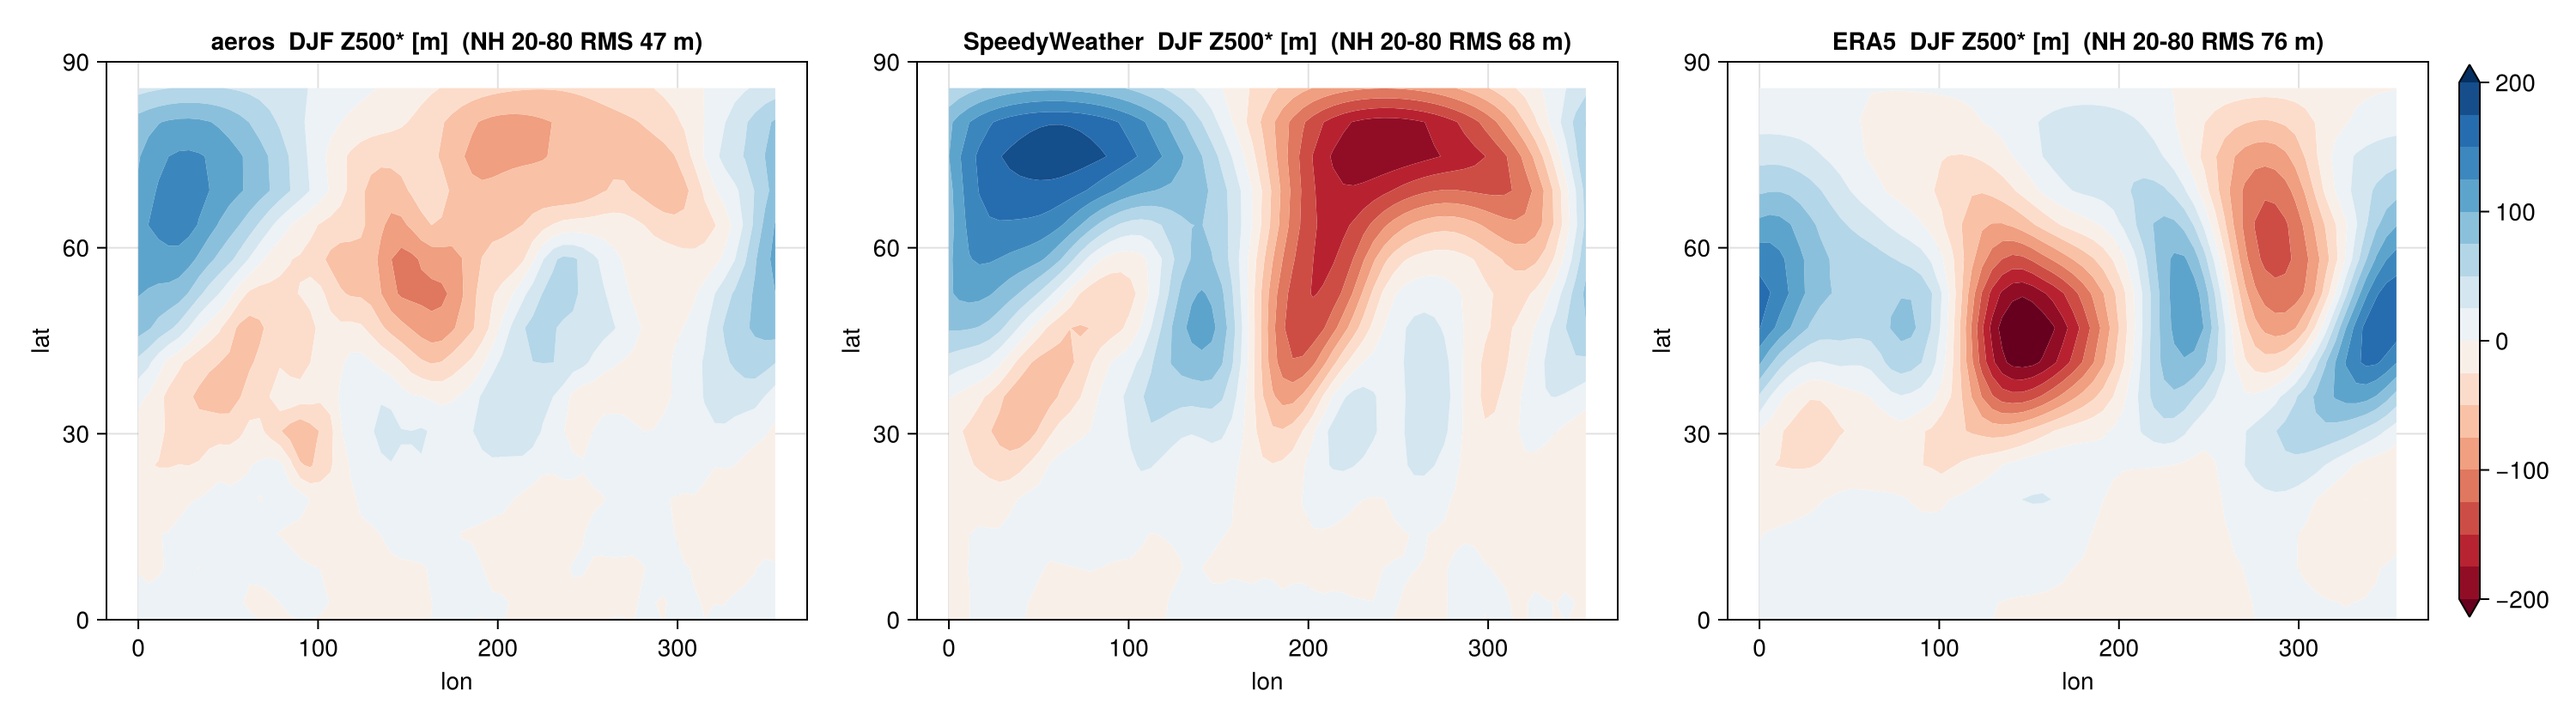
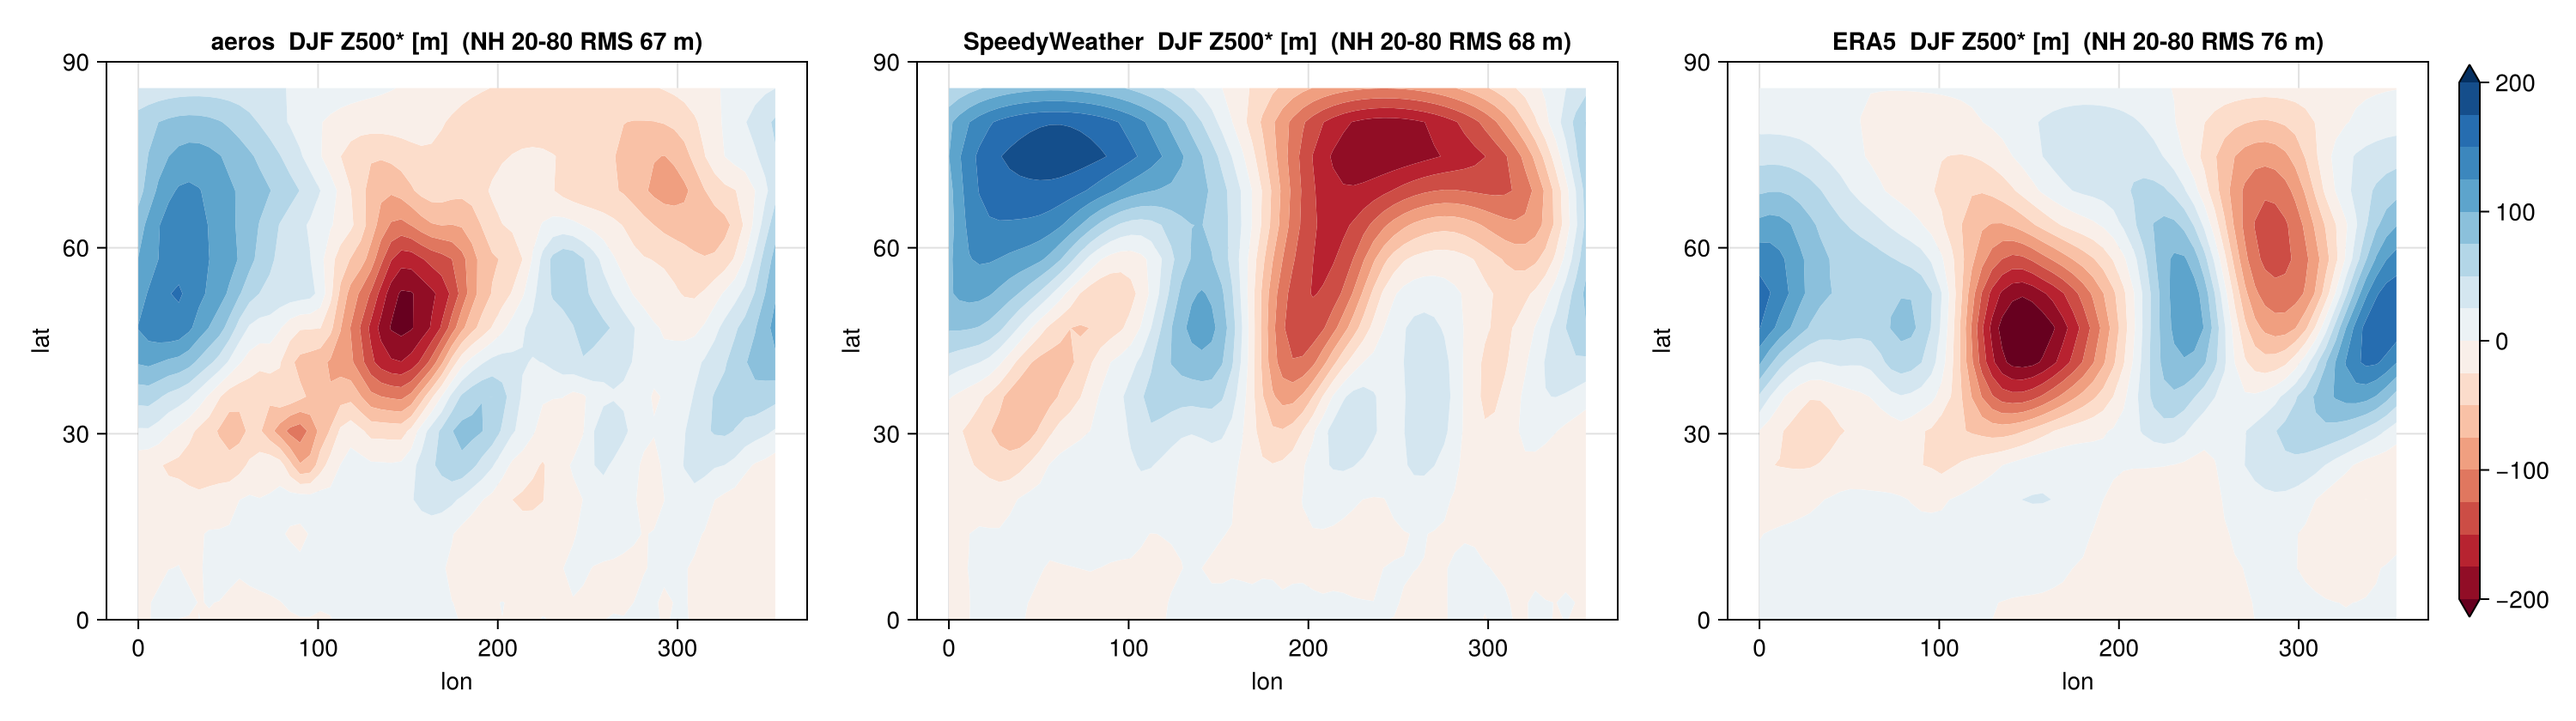
transport: mass-consistent tracer division (closes the water budget); SW surface wind; budget diagnostics
The FV tracer engine divided the transported tracer mass by its own
FV-advanced air mass, then the next step re-diagnosed layer masses from
the spectral surface pressure: the water content jumped by q*(dp_spec -
dp_FV) every step, a systematic source of 0.5-0.9 mm/day (a third of
the precipitation). Now qm is divided by the spectral layer mass at n+1
(one 2-D synthesis per step); cloud fraction is clamped at 1. Residual
dW/dt - (E - P) = -0.02 mm/day.

Also: SpeedyWeather's surface wind for all bulk fluxes, V0 =
sqrt((0.95 V_low)^2 + 5^2) (replaces the 1 m/s floor; gust_speed /
wind_slowdown knobs); a global water-budget line in the rce_long report
and a per-operator water tally (l_diag); monthly output gains vlow, evap,
shf; the SW harness records the same.

Real-Earth T21L12 (3 yr, dt=3600): P = E = 1.85 mm/day (SW 3.3, ERA5
2.9), W 30 mm, DJF NH Z500* RMS 67 m (SW 68, ERA5 76), t2m amplitude
30 K (ERA5 34), lowest-level T 287.5 (ERA5 287.5). 26/26 tests.

Changed region(s): [[0.031, 0.1238, 0.31, 0.7119]]

diff --git a/docs/refs/realearth_metrics_2026-09-05.md b/docs/refs/realearth_metrics_2026-09-05.md
@@ -1,15 +1,15 @@
 # aeros vs SpeedyWeather vs ERA5, real-Earth T21
 
-aeros: `/Users/alrobi001/models/aeros/mwm/D_realearth/output/aeros_realearth_T21L12_dt2700.nc`  
+aeros: `mwm/D_realearth/output/aeros_realearth_T21L12.nc`  
 SW: `/Users/alrobi001/models/aeros/mwm/D_realearth/output/sw_realearth_T21L8.nc`
 
 | metric | aeros | SpeedyWeather | ERA5 |
 |---|---|---|---|
-| global-mean precip [mm/day] | 2.1 | 3.3 | 2.9 |
-| global-mean T, top level / 70 hPa [K] | 214.2 | 235.2 | 206.6 |
-| global-mean T, lowest level / 2 m [K] | 288.1 | 278.3 | 287.5 |
-| max annual zonal-mean u [m/s] | 63.1 | 63.0 | 33.7 |
-| max annual [u] at 200 hPa [m/s] | 36.5 | 41.2 | 31.3 |
-| DJF NH Z500* RMS 20-80N [m] | 46.8 | 68.3 | 76.1 |
-| t2m |Jul-Jan|, NH 40-70N land [K] | 29.2 | 29.2 | 33.6 |
-| throughput [SYPD, 10 threads] | 1605.8 | 1016.4 | NaN |
+| global-mean precip [mm/day] | 1.8 | 3.3 | 2.9 |
+| global-mean T, top level / 70 hPa [K] | 217.9 | 235.2 | 206.6 |
+| global-mean T, lowest level / 2 m [K] | 287.5 | 278.3 | 287.5 |
+| max annual zonal-mean u [m/s] | 60.5 | 63.0 | 33.7 |
+| max annual [u] at 200 hPa [m/s] | 37.8 | 41.2 | 31.3 |
+| DJF NH Z500* RMS 20-80N [m] | 67.0 | 68.3 | 76.1 |
+| t2m |Jul-Jan|, NH 40-70N land [K] | 30.3 | 29.2 | 33.6 |
+| throughput [SYPD, 10 threads] | 1573.9 | 1037.9 | NaN |
